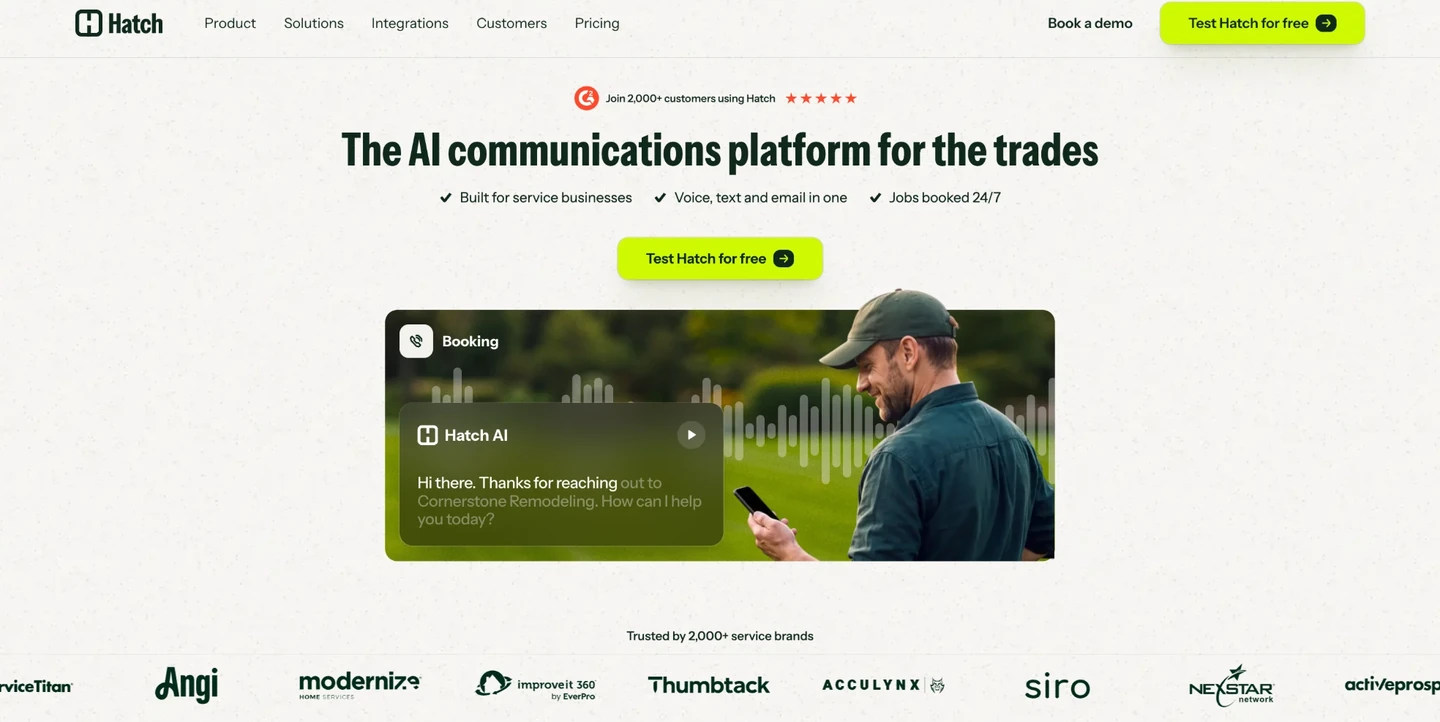
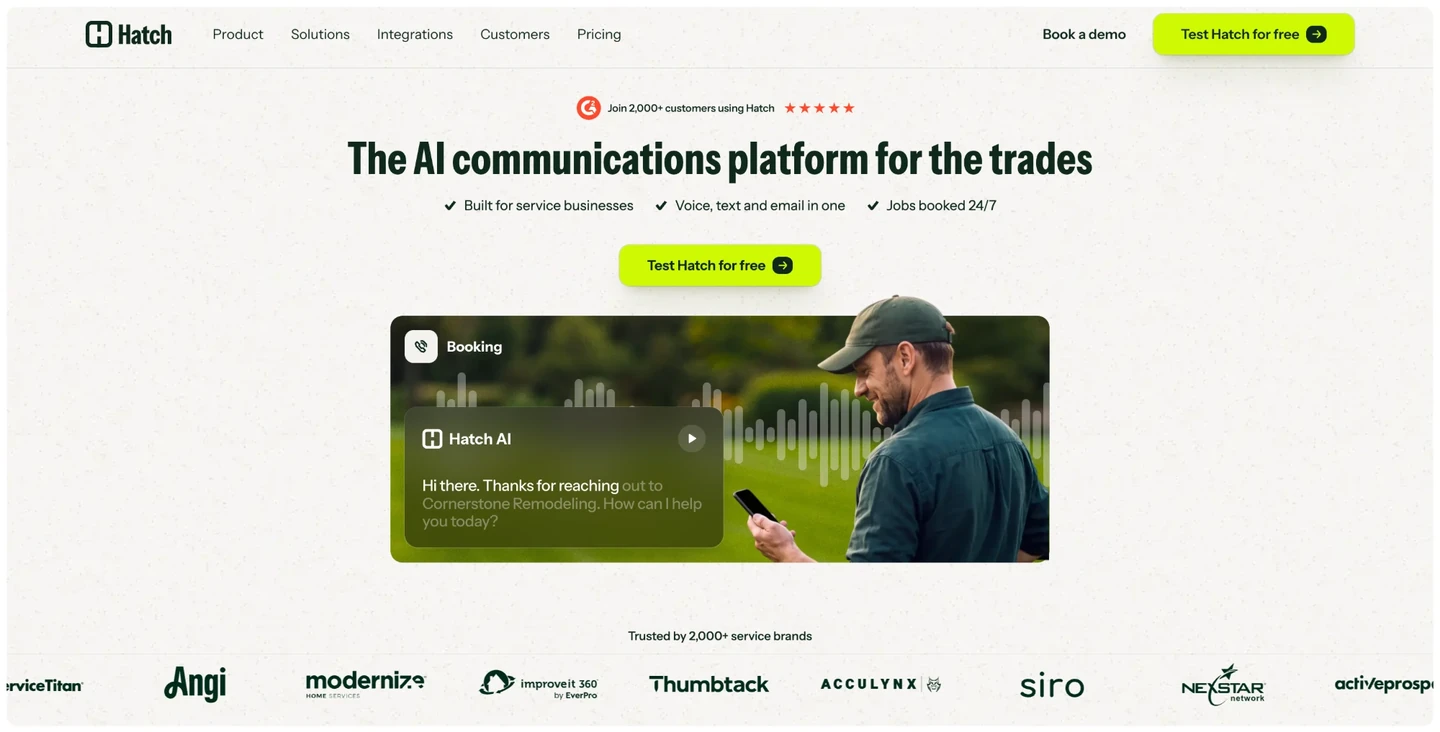
Restore full frame on Test It Out block (Landing Pages, Above the Fold)
The rounded page border is part of the landing page's style, so the
screenshot is now used uncropped at 1440px. Generated files carry a new
timestamp only.

diff --git a/api/library.md b/api/library.md
@@ -5,7 +5,7 @@
 
 Site: https://library.revenuagency.io
 Total entries: 579
-Generated: 2026-11-11T22:01:38.739Z
+Generated: 2026-11-11T22:12:32.212Z
 
 ## Google Ads (158 examples)
 
